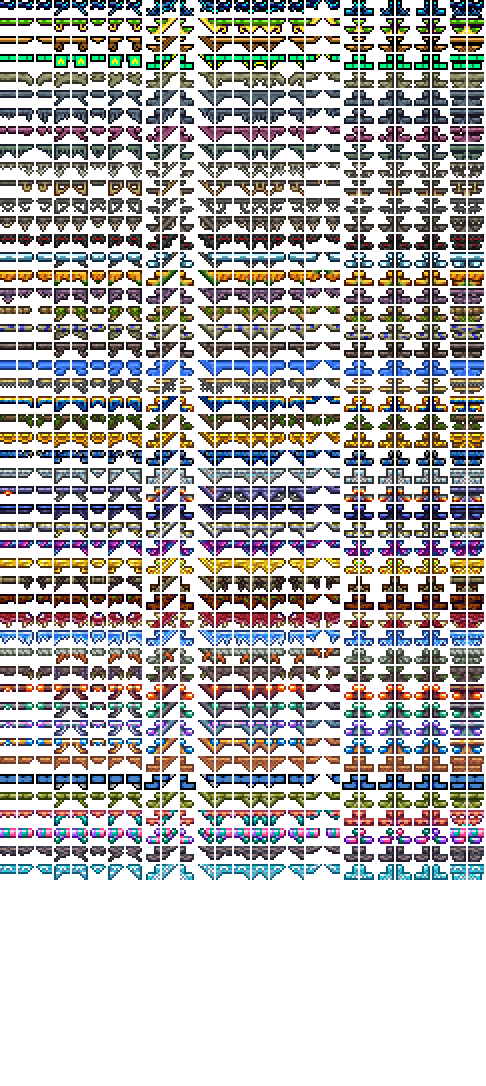
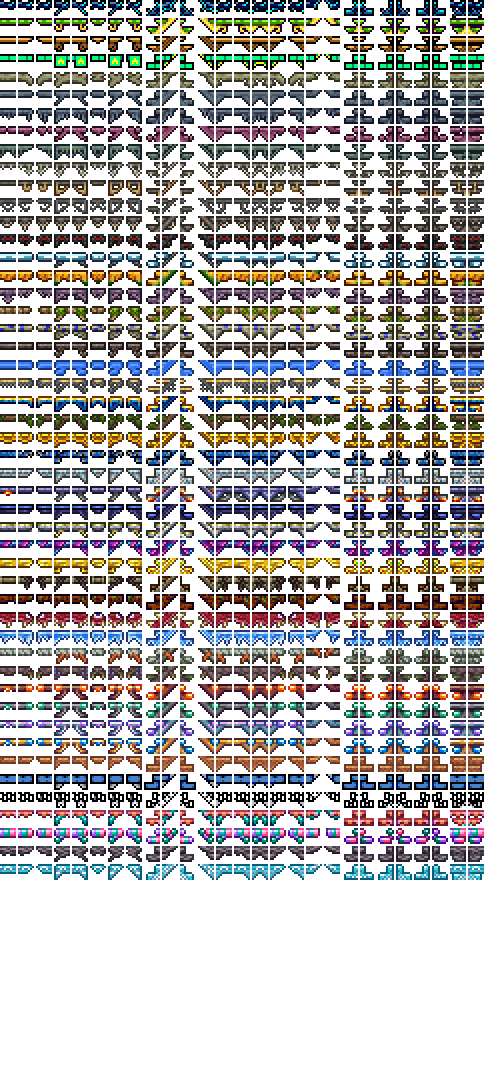
Added part of the bamboo set
Also added:
- Sky Blue Flower
- Some jungle tall plants

Changed region(s): [[0.0, 0.7293, 1.0, 0.7597]]

diff --git a/CHANGELOG.md b/CHANGELOG.md
@@ -25,9 +25,9 @@ As the name implies, this is the update that retextures the Jungle biome.
 - _Buffs:_ Regeneration, Honey
 - _Debuffs:_ Bleeding
 - _Blocks:_ Mud, Jungle Grass (+ Corrupt and Crimson variants), Hive,
-  Rich Mahogany
-- _Walls:_ Mud, Jungle, Hive, Rich Mahogany
-- _Furniture Sets:_ Rich Mahogany
+  Rich Mahogany, Bamboo, Large Bamboo
+- _Walls:_ Mud, Jungle, Hive, Rich Mahogany, Bamboo, Large Bamboo
+- _Furniture Sets:_ Rich Mahogany, Bamboo
 - _Accessories:_ Compass, Adhesive Bandage
 - _Food:_ Coffee Cup
 - Seeds for all currently added grasses
@@ -35,6 +35,7 @@ As the name implies, this is the update that retextures the Jungle biome.
   Enemies with these banners now all properly have names and bestiary entries.
 - The "Spampton NutriNose&trade;"
 - Moonglow (plus seeds and planter box)
+- Sky Blue Dye/Flower
 - Honey.
 
 #### NPCs

diff --git a/README.md b/README.md
@@ -44,10 +44,10 @@ Last updated: _{@p time @} UTC_
 - **{@p snd @}** Sounds
 @end-template-->
 <!--@region FileCount-->
-Last updated: _2023-08-25 UTC_
+Last updated: _2024-01-01 UTC_
 
-- **1188** Images (**18%** of the way to the next update)
-- **3159** Text Entries
+- **1201** Images (**20%** of the way to the next update)
+- **3188** Text Entries
 - **17** Songs
 - **22** Sounds
 <!--@end-region-->
